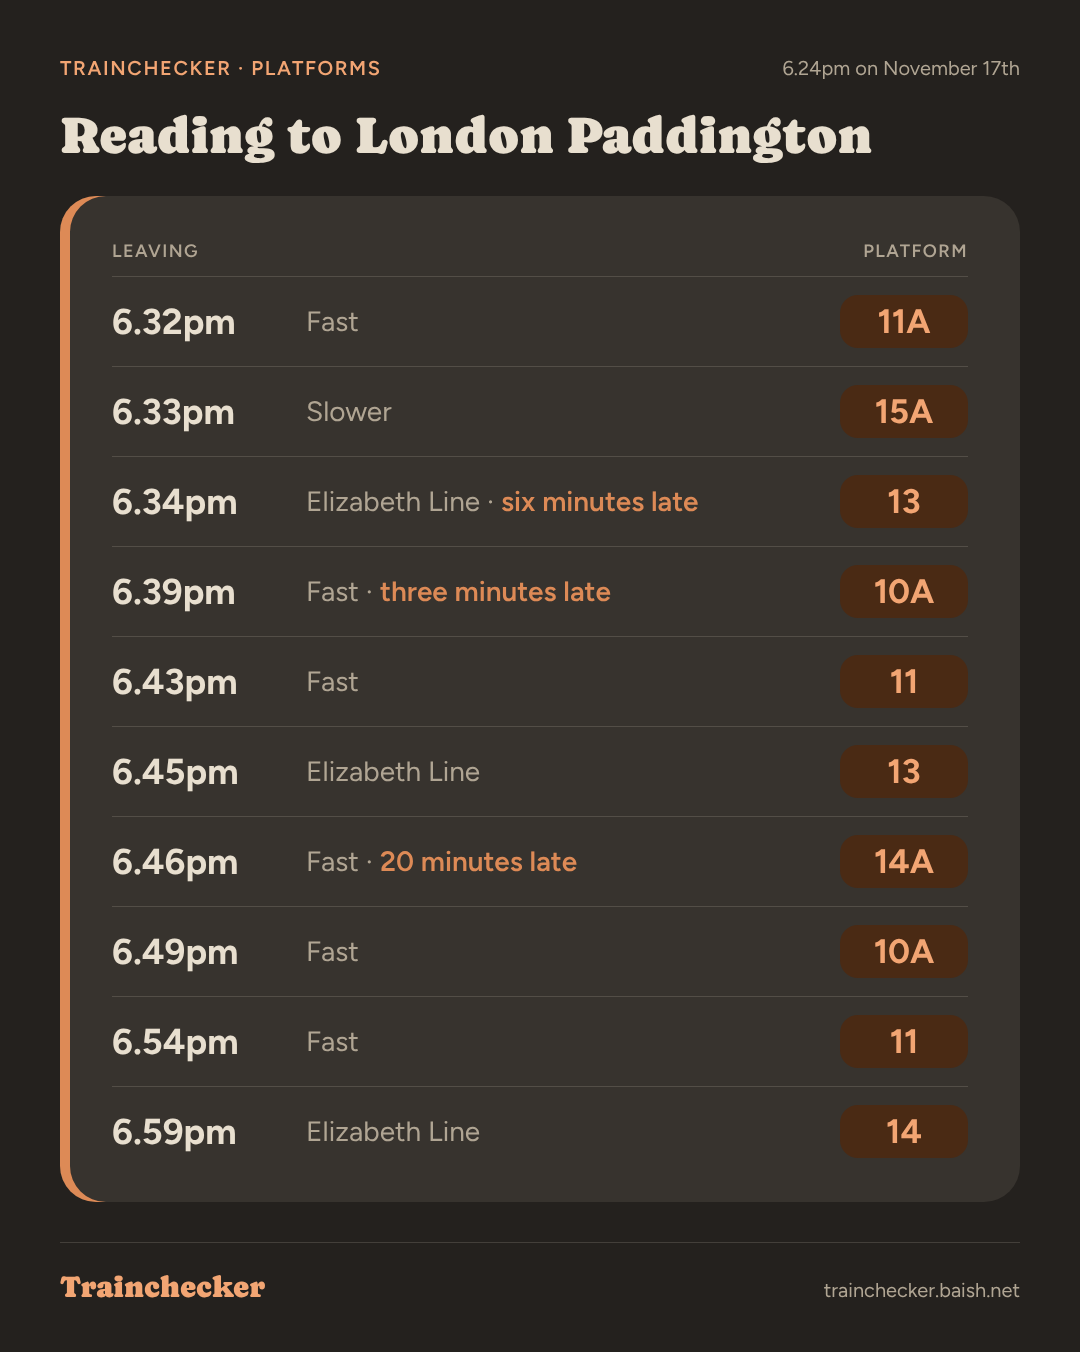
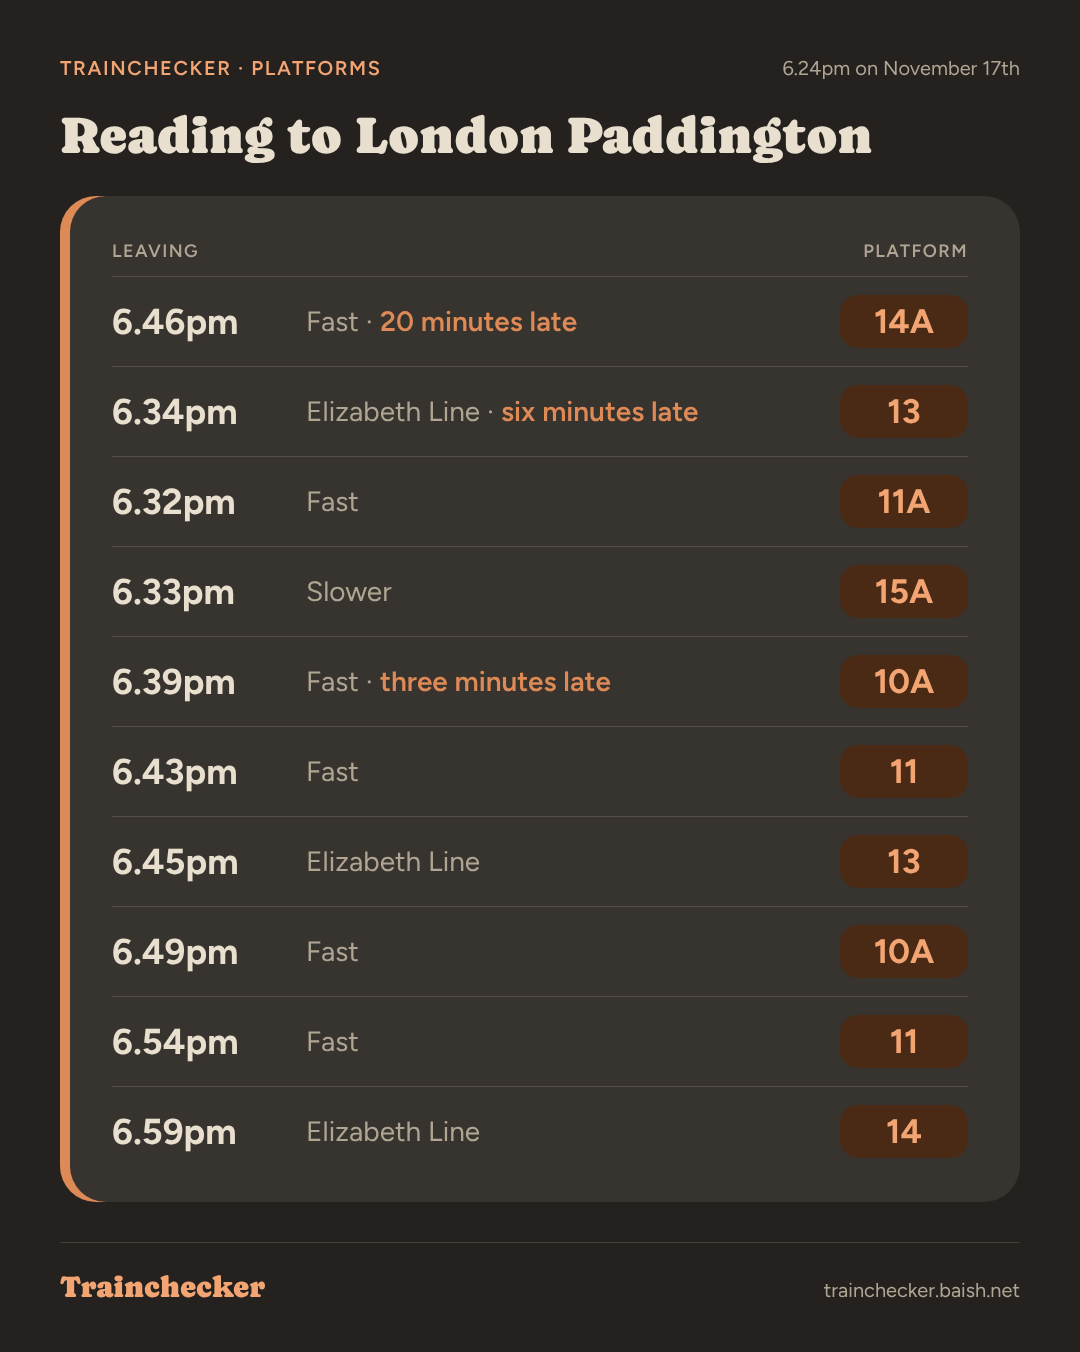
Platforms: 'The next ten trains' in bold with no colon above grouped lists; share-picture mock-ups with timetabled times
Claude-Session: https://claude.ai/code/session_01BsvHLJSEKdSvmZuSh3FBv8

diff --git a/design/share-picture-options/options.html b/design/share-picture-options/options.html
@@ -41,10 +41,10 @@ h1 { font-family: Caprasimo, serif; font-weight: 400; font-size: 52px; line-heig
 </style>
 <div class="pic" id="pic"></div>
 <script>
-const q = new URLSearchParams(location.search), opt = q.get('opt') || 'A', i = +(q.get('i') || 0)
+const q = new URLSearchParams(location.search), opt = q.get('opt') || 'A', i = +(q.get('i') || 0), v = q.get('v') || ''
 if (opt === 'C') document.documentElement.classList.add('light')
 const W = ['no', 'one', 'two', 'three', 'four', 'five', 'six', 'seven', 'eight', 'nine']
-const words = (s) => s.replace(/(\d+) min late/, (m, n) => `${n < 10 ? W[n] : n} ${n == 1 ? 'minute' : 'minutes'} late`)
+const words = (s, verb = '') => s.replace(/(\d+) min late/, (m, n) => `${verb}${n < 10 ? W[n] : n} ${n == 1 ? 'minute' : 'minutes'} late`)
 fetch('data.json').then((r) => r.json()).then((all) => {
   const d = all[i], plat = d.kind === 'platforms'
   const kick = plat ? 'TRAINCHECKER · PLATFORMS' : 'TRAINCHECKER · ARRIVALS'
@@ -59,10 +59,22 @@ fetch('data.json').then((r) => r.json()).then((all) => {
       return `<div class="blk"><p class="lead">${b.lead}</p>${out.join('')}</div>`
     }).join('') + (d.after ? `<p class="after">${d.after}</p>` : '')
   } else {
+    if (v) {
+      // Timetabled times only, lateness in words (John, November 19th 2026).
+      const late = (r, verb) => r.note ? `<span class="late">${words(r.note, verb)}</span>` : ''
+      const head = plat ? `<div class="colhead"><span>TRAIN</span><span></span><span>PLATFORM</span></div>`
+        : v === '1' ? `<div class="colhead"><span>DUE IN</span><span>FROM ${d.from.toUpperCase()}</span><span></span></div>`
+        : `<div class="colhead"><span>TRAIN</span><span>DUE IN</span><span></span></div>`
+      body = head + d.board.map((r) => plat
+        ? `<div class="row"><span class="t">${r.std}</span><span class="mid">${[r.kind, late(r, 'leaving ')].filter(Boolean).join(' · ')}</span><span class="plat">${r.platform}</span></div>`
+        : v === '1' ? `<div class="row"><span class="t">${r.sta}</span><span class="mid">${[`the ${r.left}`, late(r, 'arriving ')].filter(Boolean).join(' · ')}</span><span></span></div>`
+        : `<div class="row"><span class="t">${r.left}</span><span class="mid">${[r.sta, late(r, 'arriving ')].filter(Boolean).join(' · ')}</span><span></span></div>`).join('')
+    } else {
     const head = plat ? `<div class="colhead"><span>LEAVING</span><span></span><span>PLATFORM</span></div>` : `<div class="colhead"><span>ARRIVING</span><span>LEFT ${d.from.toUpperCase()}</span><span></span></div>`
     body = head + d.board.map((r) => plat
       ? `<div class="row"><span class="t">${r.time}</span><span class="mid">${[r.kind && (r.kind === 'Elizabeth Line' ? 'Elizabeth Line' : `${r.kind}`), r.note && `<span class="late">${words(r.note)}</span>`].filter(Boolean).join(' · ')}</span><span class="plat">${r.platform}</span></div>`
       : `<div class="row"><span class="t">${r.time}</span><span class="mid">${r.left}${r.note ? ` · <span class="late">${words(r.note)}</span>` : ''}</span><span></span></div>`).join('')
+    }
   }
   document.getElementById('pic').innerHTML = `
     <div class="top"><span class="kick">${kick}</span><span class="when">${d.at} on ${d.date}</span></div>

diff --git a/design/share-picture-options/data.ts b/design/share-picture-options/data.ts
@@ -9,15 +9,15 @@ const isT = (s?: string | null) => !!s && /^\d\d:\d\d$/.test(s)
 // Option B's rows: one train a row, time, platform (or where from), and anything to say.
 function boardP(a: Analysis) {
   const leaves = (t: any) => diff(a.now, t.late > 0 && isT(t.etd) ? t.etd : t.std)
-  const ts = a.ahead.filter((t) => !t.cancelled && t.platform && !t.unknown).sort((x, y) => leaves(x) - leaves(y)).slice(0, 10)
+  const ts = a.ahead.filter((t) => !t.cancelled && t.platform && !t.unknown).sort((x, y) => leaves(x) - leaves(y)).slice(0, 10).sort((x, y) => diff(a.now, x.std) - diff(a.now, y.std))
   const g = speedGroups(a).filter((x) => x.kind !== 'all')
   const kind = (t: any) => { const k = g.find((x) => x.trains.includes(t))?.kind; return k === 'fast' ? 'Fast' : k === 'slower' ? 'Slower' : k === 'elizabeth' ? 'Elizabeth Line' : '' }
-  return ts.map((t: any) => ({ time: t12(t.late > 0 && isT(t.etd) ? t.etd : t.std), platform: t.platform, kind: kind(t), note: t.late > 0 && isT(t.etd) ? `${t.late} min late` : '' }))
+  return ts.map((t: any) => ({ time: t12(t.late > 0 && isT(t.etd) ? t.etd : t.std), std: t12(t.std), platform: t.platform, kind: kind(t), note: t.late > 0 && isT(t.etd) ? `${t.late} min late` : '' }))
 }
 function boardA(a: Analysis) {
   const when = (t: any) => (isT(t.eta) ? t.eta : t.sta)
   const ts = [...a.past, ...a.ahead].filter((t: any) => t.sta && !t.ata && !t.cancelled && (t.eta === 'On time' || isT(t.eta) || !t.eta)).filter((t: any) => { const d = diff(a.now, when(t)); return d >= 0 && d <= 60 }).sort((x: any, y: any) => diff(a.now, when(x)) - diff(a.now, when(y))).slice(0, 10)
-  return ts.map((t: any) => { const late = isT(t.eta) ? diff(t.sta, t.eta) : 0; return { time: t12(when(t)), left: t12(t.std), note: late > 0 ? `${late} min late` : '' } })
+  return ts.map((t: any) => { const late = isT(t.eta) ? diff(t.sta, t.eta) : 0; return { time: t12(when(t)), sta: t12(t.sta), left: t12(t.std), note: late > 0 ? `${late} min late` : '' } })
 }
 const out: unknown[] = []
 for (const [f, kind] of [['20261117-1824-RDG-PAD.json', 'platforms'], ['20261117-1824-BTH-BRI.json', 'platforms'], ['20261117-2059-RDG-PAD.json', 'arrivals']] as const) {

diff --git a/scripts/check-rules.ts b/scripts/check-rules.ts
@@ -229,7 +229,7 @@ eq('platforms fold: ten, late ones in time order, by kind, "Of the next ten trai
 // More than ten (John, November 19th 2026): "The next ten trains are leaving at:", no sentence about the rest.
 const bthP = platformTrains(analyse(snapOf(raw('20261117-1824-BTH-BRI.json'))))!
 eq('platforms fold: more than ten, "The next ten trains" (John)', [bthP.text, bthP.blocks![0].lead, bthP.after], ['The next ten trains are leaving from platform 1 at 6.38pm, 6.48, 7.23, 7.38, 7.49, 7.54, 7.59, 8.15, 8.23 and 8.40.', 'The next ten trains are leaving from platform 1 at:', null])
-eq('platforms fold: grouped, "The next ten trains:" first', platformTrains(rdgPad)!.blocks!.slice(0, 2).map((b) => b.lead), ['The next ten trains:', 'Fast trains:'])
+eq('platforms fold: grouped, "The next ten trains" first, in bold (John)', platformTrains(rdgPad)!.blocks!.slice(0, 2).map((b) => [b.lead, !!b.head]), [['The next ten trains', true], ['Fast trains:', false]])
 eq('platforms fold: fast trains on 10 and 11 (10A as 10, John)', platformTrains(rp9)!.text.split(', slower')[0], 'Of the next ten trains, fast ones are leaving from platforms 10 and 11 at 9.01pm, 9.10 (six minutes later than planned), 9.12, 9.23, 9.26 and 9.43')
 eq('platforms fold: one of a kind ("a slower one")', platformTrains(analyse(snapOf(raw('20261117-2059-PAD-RDG.json'))))!.text, 'Fast trains are leaving at 9.02pm (platform 4) and 9.04 (platform 8), a slower one from platform 10 at 9.08, and Elizabeth Line trains from platform B at 9.17, 9.47 and 10.17.')
 eq('platforms fold: one platform for all, said once (John)', platformTrains(A('TVP-PAD'))!.text, 'There are trains leaving from platform 2 at 9.30am, 10.30 and 11.29.')

diff --git a/src/lib/sentences.ts b/src/lib/sentences.ts
@@ -601,7 +601,7 @@ const andList = (xs: string[]) => (xs.length > 1 ? `${xs.slice(0, -1).join(', ')
 /** A list as the page lays it out (John's option D, November 18th 2026): a lead line, then the
  *  times in bold, each with something to say on its own line, the rest run together with dots. */
 export type TimeRow = { time: string; note?: string }
-export type ListBlock = { lead: string; rows: TimeRow[] }
+export type ListBlock = { lead: string; rows: TimeRow[]; head?: boolean }
 export type Listing = { text: string; blocks: ListBlock[] | null; after: string | null; prose: string }
 
 /** Times in reading order, "am" or "pm" said once and again only when it changes; on the hour it
@@ -663,7 +663,8 @@ export function platformTrains(a: Analysis): (Listing & { fold: string }) | null
       return `${who} ${g.where ? `from ${g.where} ` : ''}at ${andList(g.rows.map(said))}`
     })
     prose = `${ps.slice(0, -1).join(', ')}, and ${ps[ps.length - 1]}.`
-    blocks = (limited ? [{ lead: 'The next ten trains:', rows: [] as TimeRow[] }] : []).concat(parts.map((g) => {
+    blocks = // In bold with no colon, so it doesn't read as a second lead (John, November 19th 2026).
+    (limited ? [{ lead: 'The next ten trains', rows: [], head: true }] as ListBlock[] : []).concat(parts.map((g) => {
       const n = name[g.kind as 'fast' | 'slower' | 'elizabeth'], one = g.rows.length === 1
       return { lead: `${one ? `${Cap(article(n[0]))} ${n[0]}` : Cap(n[1])}${g.where ? `, from ${g.where}` : ''}:`, rows: g.rows }
     }))

diff --git a/src/components/JourneyView.tsx b/src/components/JourneyView.tsx
@@ -48,7 +48,7 @@ function TimeList({ x }: { x: Listing }) {
   }
   return (
     <>
-      {x.blocks.map((b, i) => <div key={i} className="tlist"><p className="tlead">{b.lead}</p>{lines(b.rows)}</div>)}
+      {x.blocks.map((b, i) => <div key={i} className="tlist"><p className="tlead">{b.head ? <b>{b.lead}</b> : b.lead}</p>{lines(b.rows)}</div>)}
       {x.after && <p className="tafter">{x.after}</p>}
     </>
   )

diff --git a/CLAUDE.md b/CLAUDE.md
@@ -71,6 +71,10 @@ given its own branch). Before committing there, run
   Mock-ups in `design/share-picture-options/` (`data.ts` takes the real lists from saved boards,
   `options.html` lays them out, `picture.cjs` photographs them; fonts checked): A, the panel as on the page,
   dark; B, a row per train with the platform as a badge, dark; C, A in the light colours. Nothing built.
+- **John:** B in dark; grouped lists start "The next ten trains" in bold, no colon (done; checks 246 + 57 + 73,
+  the fold at 390px dark). The pictures to show timetabled times, lateness in words: B1 (platforms "TRAIN",
+  "leaving three minutes late"; arrivals "DUE IN" then "the 8.47pm" from A, "arriving three minutes late")
+  and B2 (arrivals "TRAIN" then "DUE IN"). Share words to start "The next ten trains…" when there are more.
 
 ### November 18th 2026: "Delayed" trains out of the lists; live (`main`; Claude Code)
 

diff --git a/SPEC.md b/SPEC.md
@@ -585,5 +585,5 @@ they differ.
 16. **More than ten trains with platforms** (John, November 19th 2026): no sentence about the rest
     ("We're only showing you the next ten departures…" is gone); the list starts "The next ten trains are
     leaving at:" (or "…leaving from platform 1 at:"). Where the trains are grouped by kind, "The next ten
-    trains:" comes first, then the groups as before, and the Share words begin "Of the next ten trains,
+    trains" comes first, in bold with no colon (John), then the groups as before, and the Share words begin "Of the next ten trains,
     fast ones are leaving…" (Claude's draft for the grouped case, for John).
